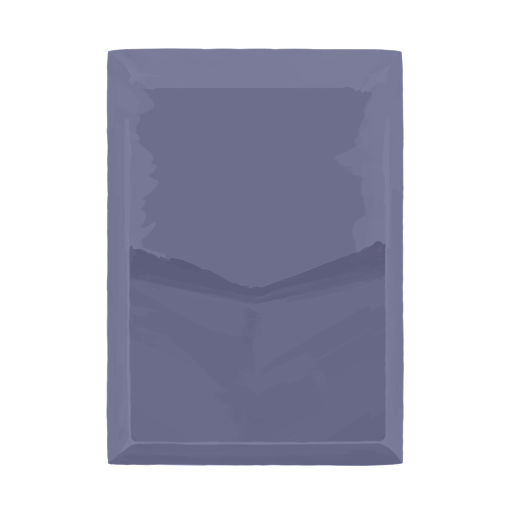
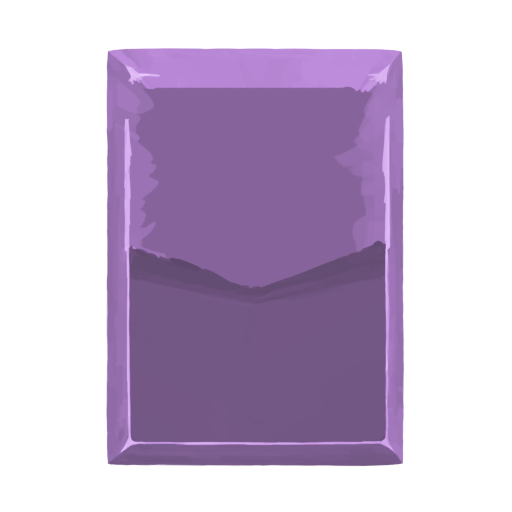
bringing over all the art

Changed region(s): [[0.1875, 0.0938, 0.8125, 0.9062]]

diff --git a/src/main/java/code/characters/TheAberrant.java b/src/main/java/code/characters/TheAberrant.java
@@ -36,13 +36,12 @@ public class TheAberrant extends CustomPlayer {
 
 
     public TheAberrant(String name, PlayerClass setClass) {
-        super(name, setClass, new CustomEnergyOrb(orbTextures, makeCharacterPath("mainChar/orb/vfx.png"), null), new SpriterAnimation(
-                makeCharacterPath("mainChar/static.scml")));
-        initializeClass(null,
+        super(name, setClass, new CustomEnergyOrb(orbTextures, makeCharacterPath("mainChar/orb/vfx.png"), null), new SpriterAnimation(makeCharacterPath("mainChar/static.scml")));
+        initializeClass(makeCharacterPath("mainChar/abby.png"),
                 SHOULDER1,
                 SHOULDER2,
                 CORPSE,
-                getLoadout(), 20.0F, -10.0F, 166.0F, 327.0F, new EnergyManager(3));
+                getLoadout(), 0f, 0f, 410.0F, 290.0F, new EnergyManager(3));
 
 
         dialogX = (drawX + 0.0F * Settings.scale);
@@ -52,7 +51,7 @@ public class TheAberrant extends CustomPlayer {
     @Override
     public CharSelectInfo getLoadout() {
         return new CharSelectInfo(NAMES[0], TEXT[0],
-                80, 80, 0, 99, 5, this, getStartingRelics(),
+                75, 75, 0, 99, 5, this, getStartingRelics(),
                 getStartingDeck(), false);
     }
 
@@ -76,7 +75,7 @@ public class TheAberrant extends CustomPlayer {
 
     @Override
     public void doCharSelectScreenSelectEffect() {
-        CardCrawlGame.sound.playA("UNLOCK_PING", MathUtils.random(-0.2F, 0.2F));
+        CardCrawlGame.sound.playA("MAW_DEATH", MathUtils.random(-0.2F, 0.2F));
         CardCrawlGame.screenShake.shake(ScreenShake.ShakeIntensity.LOW, ScreenShake.ShakeDur.SHORT,
                 false);
     }
@@ -97,12 +96,12 @@ public class TheAberrant extends CustomPlayer {
 
     @Override
     public String getCustomModeCharacterButtonSoundKey() {
-        return "UNLOCK_PING";
+        return "MAW_DEATH";
     }
 
     @Override
     public int getAscensionMaxHPLoss() {
-        return 8;
+        return 4;
     }
 
     @Override
@@ -117,7 +116,7 @@ public class TheAberrant extends CustomPlayer {
 
     @Override
     public BitmapFont getEnergyNumFont() {
-        return FontHelper.energyNumFontRed;
+        return FontHelper.energyNumFontPurple;
     }
 
     @Override
@@ -167,6 +166,11 @@ public class TheAberrant extends CustomPlayer {
     @Override
     public String getVampireText() {
         return TEXT[2];
+    }
+
+    @Override
+    public String getSensoryStoneText() {
+        return TEXT[3];
     }
 
     public static class Enums {

diff --git a/src/main/java/code/AbbyMod.java b/src/main/java/code/AbbyMod.java
@@ -49,10 +49,10 @@ public class AbbyMod implements
         return modID + ":" + idText;
     }
 
-    public static Color characterColor = CardHelper.getColor(200.0f, 200.0f, 220.0f);
+    public static Color characterColor = CardHelper.getColor(165.0f, 122.0f, 191.0f);
 
     public static final String SHOULDER1 = makeCharacterPath("mainChar/shoulder.png");
-    public static final String SHOULDER2 = makeCharacterPath("mainChar/shoulder2.png");
+    public static final String SHOULDER2 = makeCharacterPath("mainChar/shoulder.png");
     public static final String CORPSE = makeCharacterPath("mainChar/corpse.png");
     private static final String ATTACK_S_ART = makeImagePath("512/attack.png");
     private static final String SKILL_S_ART = makeImagePath("512/skill.png");

diff --git a/src/main/java/code/cards/Strike.java b/src/main/java/code/cards/Strike.java
@@ -12,12 +12,12 @@ public class Strike extends AbstractEasyCard {
 
     public Strike() {
         super(ID, 1, CardType.ATTACK, CardRarity.BASIC, CardTarget.ENEMY);
-        setBlock(6, +3);
+        setDamage(6, +3);
         tags.add(CardTags.STRIKE);
         tags.add(CardTags.STARTER_STRIKE);
     }
 
     public void use(AbstractPlayer p, AbstractMonster m) {
-        dmg(m, AbstractGameAction.AttackEffect.NONE);
+        dmg(m, AbstractGameAction.AttackEffect.BLUNT_LIGHT);
     }
 }
